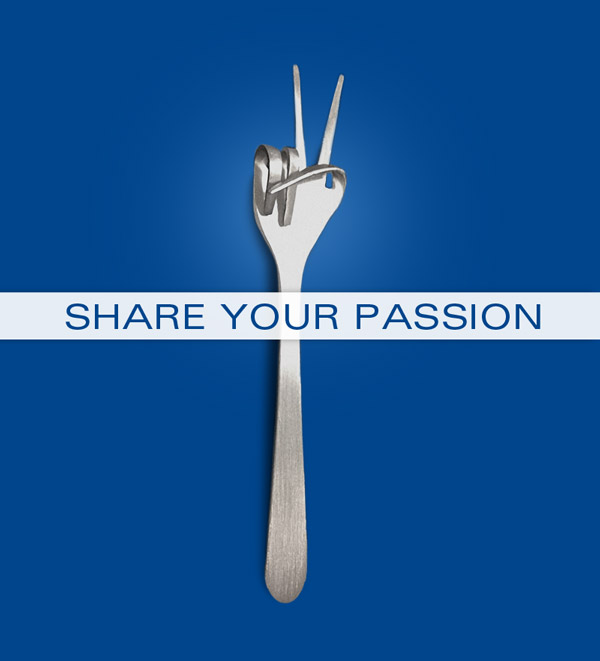
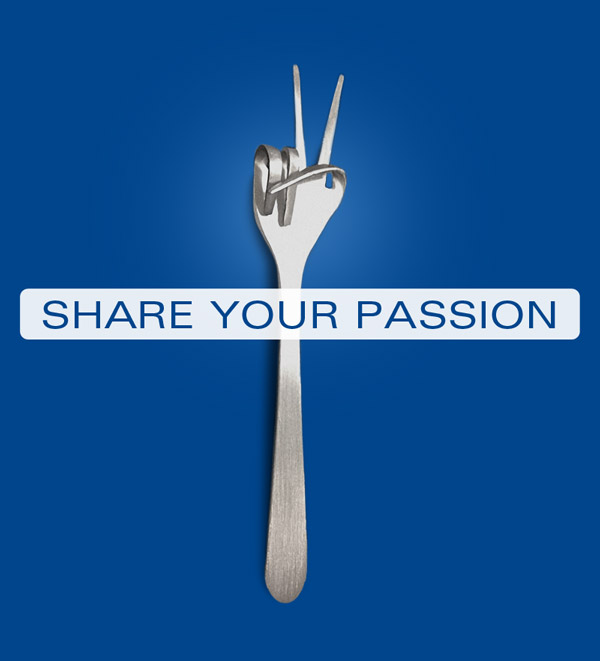
Fork Share your passion...

Changed region(s): [[0.0, 0.4236, 1.0, 0.5144]]

diff --git a/_includes/post-save-the-date.html b/_includes/post-save-the-date.html
@@ -1,4 +1,4 @@
-<img src="/css/assets/images/founders/background-save-the-date.jpg" "Photo of East Field sunset" class="full-size" style="border-radius: .25em; -webkit-border-radius: .25em; -moz-border-radius: .25em; -o-border-radius: .25em; margin-bottom: 1em;">
+<img src="/css/assets/images/founders/forkit-share-your-passion.jpg" "Fork - Share your passion" class="full-size" style="border-radius: .25em; -webkit-border-radius: .25em; -moz-border-radius: .25em; -o-border-radius: .25em; margin-bottom: 1em;">
 
 <div class="side-container">
 <h3><a href="/founders/index.html">Fiat Fifty: Save the Date</a></h3>
